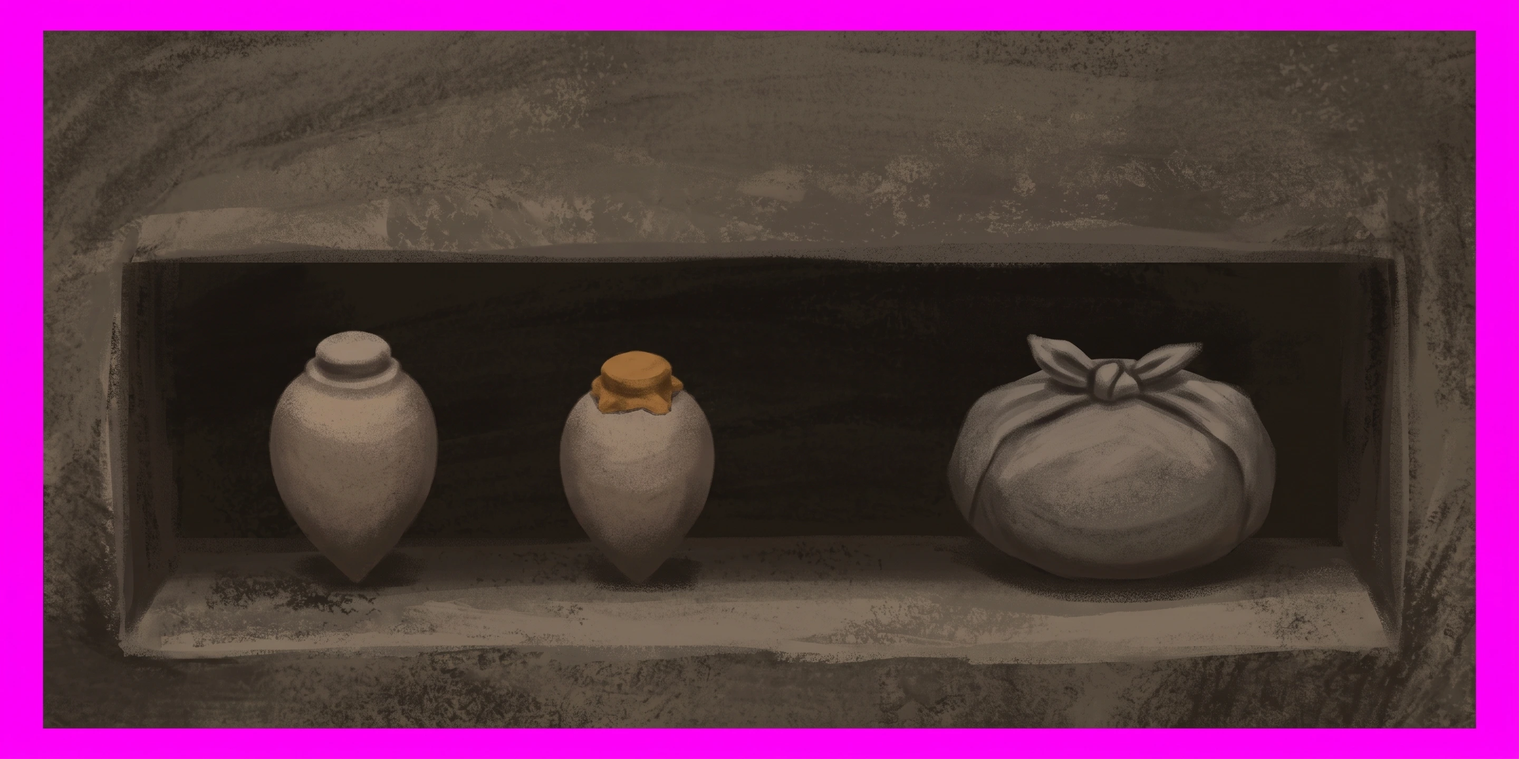
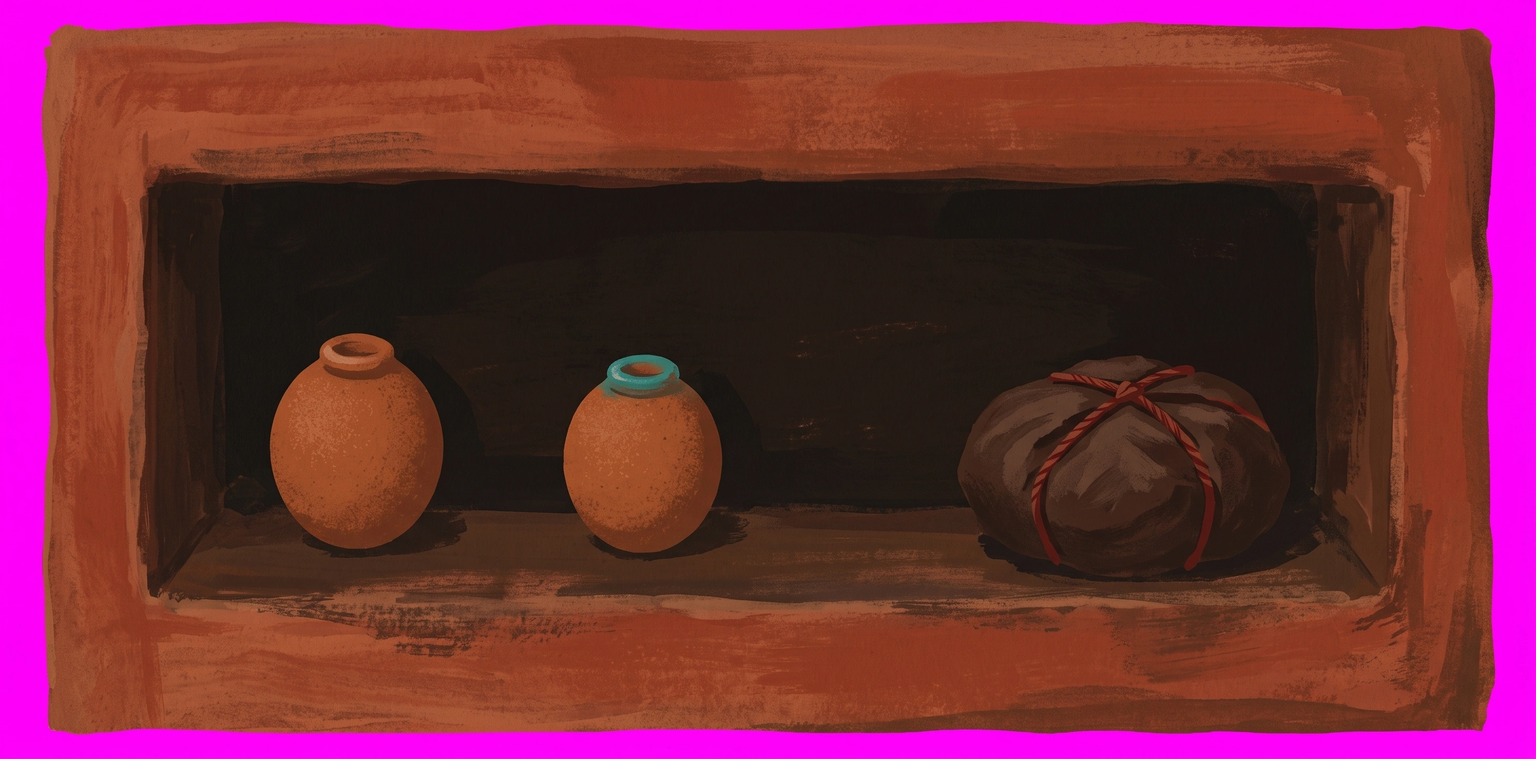
feat: starter's goods niche repainted in red ochre, two jars and a bundle
Claude-Session: https://claude.ai/code/session_01NQk9Q1WZoZfDzoRioyXby1

diff --git a/docs/instructions/repaint-queue.md b/docs/instructions/repaint-queue.md
@@ -193,43 +193,6 @@ the shabti is `--mesh=art/masters/meshes/shabti.glb`. `starter-plain.png` is the
 `art/masters/surfaces/starter-floor.webp` scaled to 1024, the crop every `<tier>-plain.png` is. The
 tally board has no scaffold: it attaches its own master.
 
-### `starter/niche` — a goods recess with two jars and a bundle
-
-**Attach:**
-
-1. `~/tile-previews/niche-starter.png` — the scaffold
-2. `~/tile-previews/starter-plain.png` — the material reference
-
-```
-A wall-less product shot of a recess cut into a wall, painted in flat matte gouache, no background, on pure magenta #FF00FF. Landscape, two units wide by one tall, exactly as the reference. Do not re-compose it into a square. Paint over the reference image itself.
-
-The object: a goods recess cut into a mudbrick wall. The frame round the opening is the SURROUND — jambs,
-lintel and sill. Inside, the two round shapes at the left are small storage JARS, and the rounded lump at
-the right is a cloth BUNDLE tied at the top.
-
-The surround is mud plaster washed RED OCHRE #b8452c, deepened to #7e3a1a, rubbed through to dark
-mudbrick #5e3a1e on the sill where goods are slid in and out. The recess behind is in deep shade #3a2a1c.
-The jars are fired terracotta #c0612f, one with a turquoise #2a9d8f glazed lip. The bundle is cloth dyed
-deep umber, tied with red cord.
-
-IT SITS IN A WALL ABOVE A PALE FLOOR AND MUST READ DARK. The floor is pale limestone, #d8c8a8. The object
-as a whole is clearly DARKER and more colourful than that: nothing on it larger than a fingertip is
-lighter than terracotta #c0612f, and only the turquoise #2a9d8f may be, in small touches. Its lower edge
-is its darkest, deep umber #3a2a1c. Nothing on it is white, cream, bleached or whitewash.
-
-Keep every edge, every proportion and every silhouette exactly as in the reference image — do not move, resize, straighten, add, remove or restyle any part of it, and do not change the angle it stands at. Paint only material and wear.
-
-No highlights, no gloss, no rim light, no ground plane, no reflections. Matte throughout, as if lit by one dull lamp. Merchant's storehouse: fired terracotta #c0612f and #7e3a1a, honey-brown timber #9a6a3c and #5e3a1e, red ochre paint #b8452c, turquoise faience #2a9d8f. Saturated and warm — colour that reads from across the room — and never as pale as the floor it stands on.
-```
-
-Then, once the return is in `~/Downloads`:
-
-```sh
-scaffold niche --shear=0.5 --width=448 --height=224 --sun=0
-yarn import-tile art/masters/props/starter/niche.webp --tier=starter --name=niche --slot=wall \
-  --filter=smooth --mask="$OBJ" --headroom=0.18
-```
-
 ### `starter/tallyBoard` — a dark plank of ochre tally strokes
 
 FLAT, so there is no scaffold to attach: the first attachment is the landed tile's own master, and the
